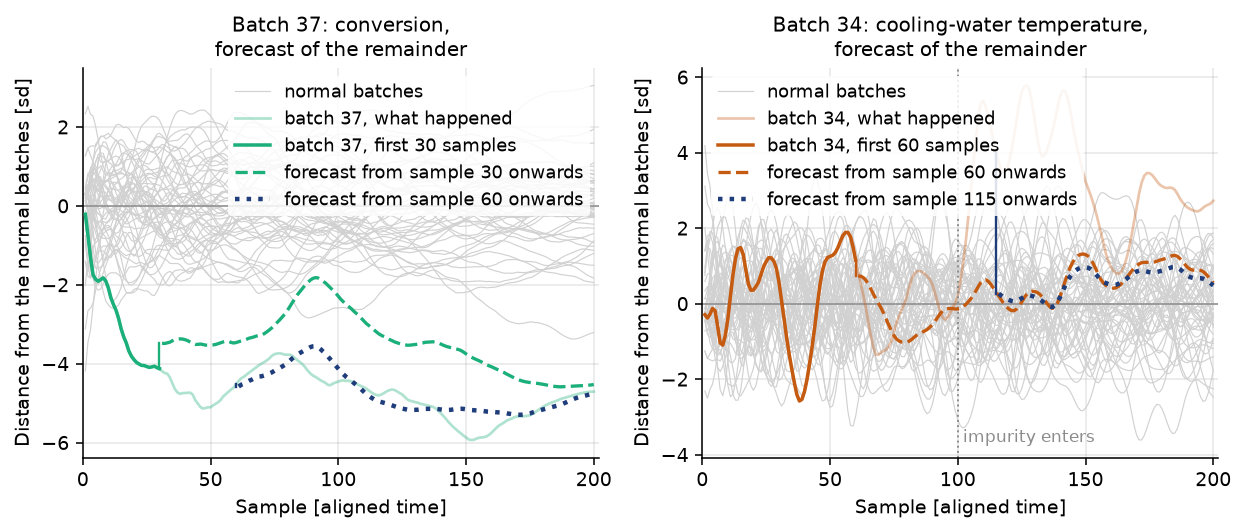
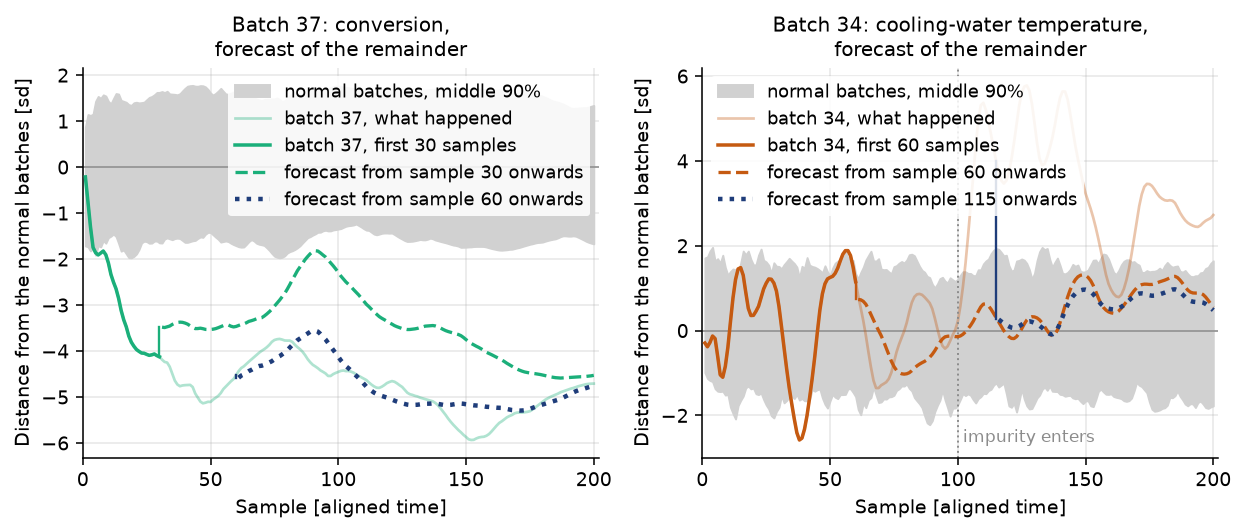
SBR forecast figure: the normal batches as a band, not 51 lines
On the cooling-water temperature the 51 grey trajectories filled the panel
and the two forecasts had to be read through them. The band covers the
middle 90% of the normal batches at each sample, which is what the reader
needs from them, and leaves the foreground clear.

Claude-Session: https://claude.ai/code/session_01LXthGpHLQFfGubBiKFtGAE

diff --git a/batch/batch-case-sbr-figures.py b/batch/batch-case-sbr-figures.py
@@ -365,8 +365,11 @@ def main(out_dir: pathlib.Path, data_url: str | None) -> None:
     time = np.arange(1, model.n_timesteps_ + 1)
     for ax, (batch_id, (tag, sample_points)) in zip(axes, FORECASTS.items(), strict=True):
         colour = HIGHLIGHT[batch_id]
-        for j, batch in enumerate(normal.values()):
-            ax.plot(time, z_form(batch)[tag].to_numpy(), color=PALE_GREY, lw=0.6, zorder=1, label="normal batches" if j == 0 else None)
+        # The 51 normal batches as a band rather than 51 lines: on a noisy tag the lines fill the panel
+        # and the forecasts have to be read through them. The band is where the middle 90% of them lie.
+        spread = np.stack([z_form(batch)[tag].to_numpy() for batch in normal.values()])
+        ax.fill_between(time, np.percentile(spread, 5, axis=0), np.percentile(spread, 95, axis=0),
+                        color=PALE_GREY, zorder=1, label="normal batches, middle 90%")
         ax.axhline(0, color=GREY, lw=0.8, zorder=2)
         actual = z_form(trajectories[batch_id])[tag].to_numpy()
         first = sample_points[0]
